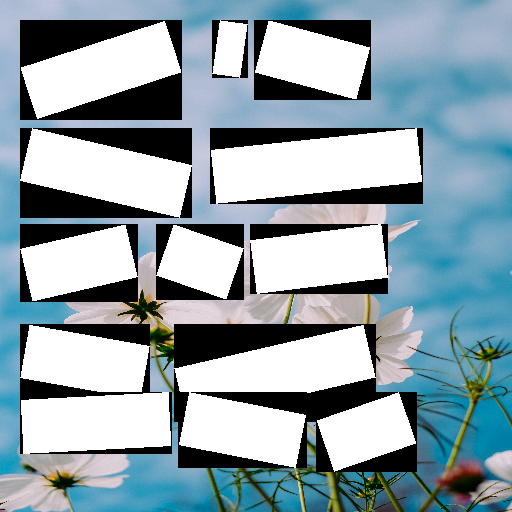
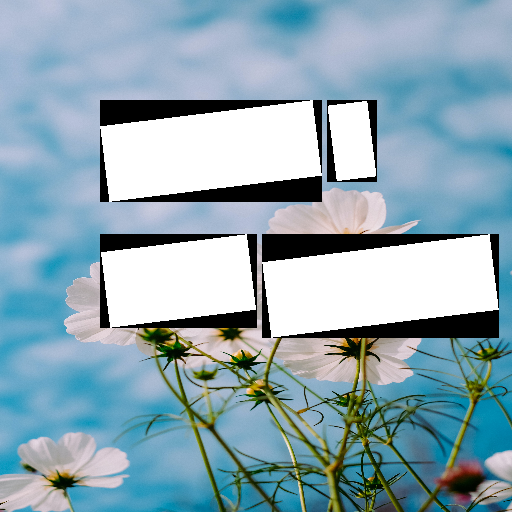
added rotation calculation

diff --git a/font_to_img.py b/font_to_img.py
@@ -28,32 +28,42 @@ rotate=False):
     draw_point = (0, 0)
     draw.multiline_text(draw_point, text, font=font, fill=color, align=font_align,embedded_color=True,stroke_fill = "#282828")
     if rotate:
-        rotate_angle = np.random.randint(-20,20)
-        img = img.rotate(rotate_angle, expand=True)
-        img_mask = img_mask.rotate(rotate_angle, expand=True,resample=Image.BICUBIC)
+        img = img.rotate(rotate, expand=True)
+        img_mask = img_mask.rotate(rotate, expand=True,resample=Image.BICUBIC)
+        rotate_angle = rotate
+    else:
+        rotate_angle = 0
     return img, img_mask,rotate_angle
 
-def main(text,background_img_path,font_path,font_size,color,shape=(512,512)):
+def main(text,background_img_path,font_path,font_size,color,shape=(512,512),rotate_flag=True):
+    if rotate_flag:
+        rotate = np.random.randint(-15,15)
+    else:
+        rotate = rotate_flag
     images = [text_to_image(
         text=i.replace(" ",""),
         font_filepath=font_path,
         font_size=font_size,
         color=color,
-        rotate=True
+        rotate=rotate
         ) for i in text.split()
         ]
     text_images = [i[0] for i in images]
     masks = [i[1] for i in images]
-    rotate_angles = [i[2] for i in images]
     
     # combine images
     for image,mask in zip(text_images,masks):
         image.paste(mask, mask=mask)
 
-    add_background(text_images,background_img_path,shape)
+    add_background(images = text_images,background_image_path = background_img_path,shape = shape,rotate_angle = rotate, rotate=rotate)
 
-def add_background(images, background_image_path, shape):
-    x_offset = y_offset = 20
+def add_background(images, background_image_path, shape, rotate_angle, rotate=True):
+    # if rotate == True and len(images) == sum(rotate_angles==0):
+    #     raise Exception("ROtate set to True but all images are not rotated")
+    # if rotate == False and len(images) != sum(rotate_angles==0):
+    #     raise Exception("ROtate set to False but all images are not rotated")
+    
+    x_offset = y_offset = 100
 
     # Read background image
     background = cv2.imread(background_image_path)
@@ -68,25 +78,39 @@ def add_background(images, background_image_path, shape):
     # Add images to background
     next_image_x = x_offset
     next_image_y = y_offset
-
-    for image in tqdm(images):
+    print("*"*30,rotate_angle,"*"*30)
+    max_height_by_row = -1
+    for i,image in tqdm(enumerate(images)):
         # save image
-        cv2.imwrite("out/{}.png".format(next_image_x), image)
+        # cv2.imwrite("out/{}.png".format(next_image_x), image)
         image_height, image_width, _ = image.shape
-        random_y = np.random.randint(0, int(image_width / 5))
+        # print(f"Current max height by row {max_height_by_row}")
+        if rotate:
+            A = image_height / np.tan(np.deg2rad(abs(rotate_angle)))
+            image_height_for_measures = (A + image_width) * np.sin(np.deg2rad(abs(rotate_angle)))
+            # round to nearest integer
+            image_height_for_measures = np.ceil(image_height_for_measures).astype(int)
+        else:
+            image_height_for_measures = image_height
+        
+        if image_height_for_measures > max_height_by_row:
+            max_height_by_row = image_height_for_measures
 
-        if image_height + next_image_x >= shape[0]:  # Check height condition
+        random_y = 5#np.random.randint(0, int(image_width / 5))
+
+        if image_height_for_measures + next_image_x >= shape[0]:  # Check height condition
             next_image_x = x_offset + random_y
             next_image_y = y_offset
 
         if image_width + next_image_y >= shape[1]:  # Check width condition
-            next_image_x += image_height + random_y
+            next_image_x += max_height_by_row + random_y
             next_image_y = y_offset
+            max_height_by_row = -1
 
         remaining_space_x = shape[0] - next_image_x
         remaining_space_y = shape[1] - next_image_y
 
-        if next_image_x >= shape[0] or next_image_y >= shape[1] or remaining_space_x < image_height or remaining_space_y < image_width:
+        if next_image_x >= shape[0] or next_image_y >= shape[1] or remaining_space_x < image_height_for_measures or remaining_space_y < image_width:
             print("No space left")
             break
 
@@ -94,7 +118,7 @@ def add_background(images, background_image_path, shape):
                    next_image_y:next_image_y + image_width] = image
 
         next_image_y += image_width + random_y
-
+        print(max_height_by_row)
 
         # print("Remaining space x", )
         # print("Remaining space y", shape[1] - next_image_y)
@@ -106,5 +130,15 @@ def add_background(images, background_image_path, shape):
     # Save image
     background.save("out/sin01.png")
 
-text = """කොළඹ - නුවර කාර්යාල සේවකයින් රැගත් බස් රථයක් ලංගම බස්රථයක මුහුණට මුහුණ ගැටී අනතුරක් සිදුව තිබේ."""
-main(text.strip(),"background/mink-mingle-96JD67agngE-unsplash.jpg","fonts/sin/AbhayaLibre-Medium.ttf",50,(255, 255, 255))
+text = """කොළඹ - නුවර කාර්යාල සේවකයින් රැගත් බස් රථයක් ලංගම බස්රථයක මුහුණට මුහුණ ගැටී අනතුරක් සිදුව තිබේ.
+කොළඹ - නුවර කාර්යාල සේවකයින් රැගත් බස් රථයක් ලංගම බස්රථයක මුහුණට මුහුණ ගැටී අනතුරක් සිදුව තිබේ.
+කොළඹ - නුවර කාර්යාල සේවකයින් රැගත් බස් රථයක් ලංගම බස්රථයක මුහුණට මුහුණ ගැටී අනතුරක් සිදුව තිබේ.
+කොළඹ - නුවර කාර්යාල සේවකයින් රැගත් බස් රථයක් ලංගම බස්රථයක මුහුණට මුහුණ ගැටී අනතුරක් සිදුව තිබේ.
+කොළඹ - නුවර කාර්යාල සේවකයින් රැගත් බස් රථයක් ලංගම බස්රථයක මුහුණට මුහුණ ගැටී අනතුරක් සිදුව තිබේ.
+කොළඹ - නුවර කාර්යාල සේවකයින් රැගත් බස් රථයක් ලංගම බස්රථයක මුහුණට මුහුණ ගැටී අනතුරක් සිදුව තිබේ.
+කොළඹ - නුවර කාර්යාල සේවකයින් රැගත් බස් රථයක් ලංගම බස්රථයක මුහුණට මුහුණ ගැටී අනතුරක් සිදුව තිබේ.
+කොළඹ - නුවර කාර්යාල සේවකයින් රැගත් බස් රථයක් ලංගම බස්රථයක මුහුණට මුහුණ ගැටී අනතුරක් සිදුව තිබේ.
+කොළඹ - නුවර කාර්යාල සේවකයින් රැගත් බස් රථයක් ලංගම බස්රථයක මුහුණට මුහුණ ගැටී අනතුරක් සිදුව තිබේ.
+කොළඹ - නුවර කාර්යාල සේවකයින් රැගත් බස් රථයක් ලංගම බස්රථයක මුහුණට මුහුණ ගැටී අනතුරක් සිදුව තිබේ."""
+
+main(text.strip(),"background/mink-mingle-96JD67agngE-unsplash.jpg","fonts/sin/AbhayaLibre-Medium.ttf",70,(255, 255, 255))
